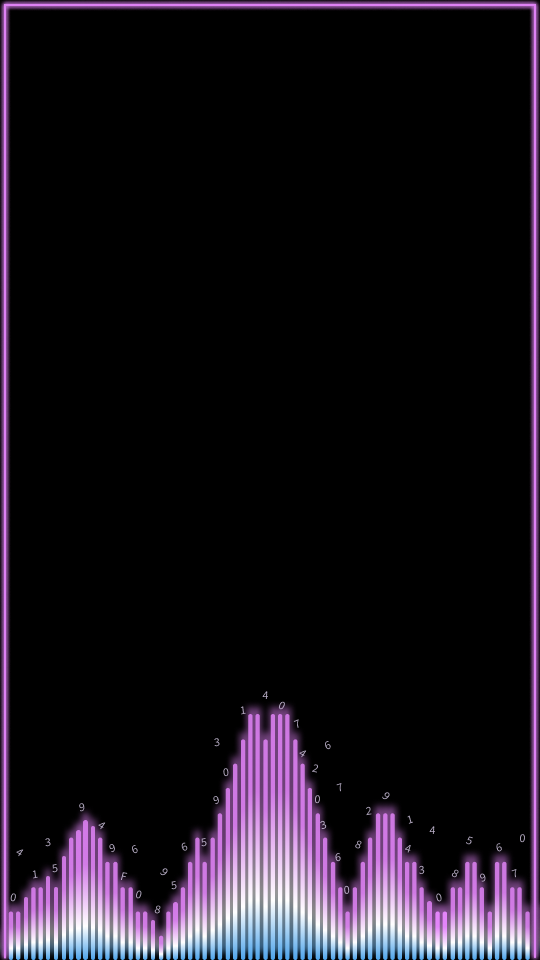
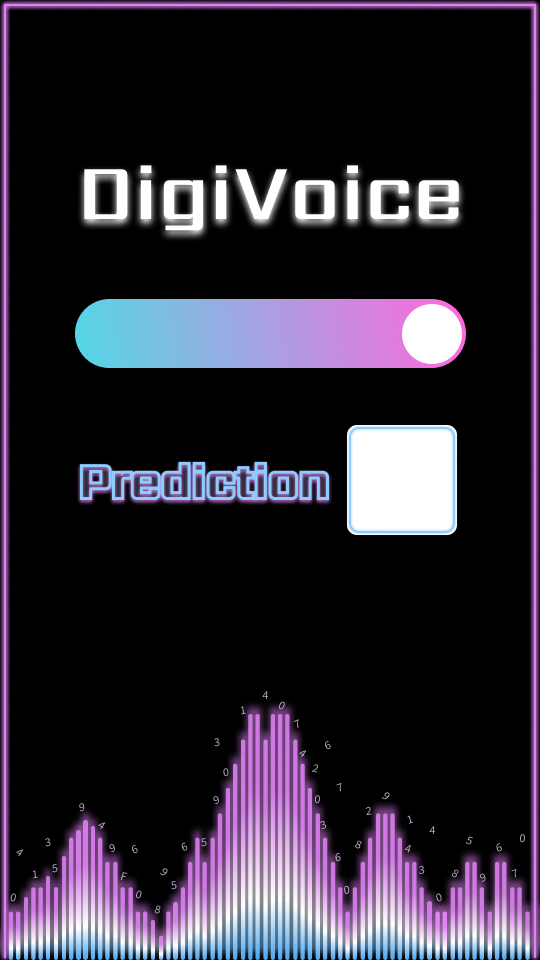
UI done

Changed region(s): [[0.1185, 0.3125, 0.8593, 0.4062], [0.1481, 0.4375, 0.8593, 0.5625], [0.1481, 0.1562, 0.8593, 0.25]]

diff --git a/code/MainUI.py b/code/MainUI.py
@@ -28,49 +28,76 @@ class Ui_MainWindow(object):
         MainWindow.setMaximumSize(QSize(540, 960))
         self.centralwidget = QWidget(MainWindow)
         self.centralwidget.setObjectName(u"centralwidget")
-        self.label_2 = QLabel(self.centralwidget)
-        self.label_2.setObjectName(u"label_2")
-        self.label_2.setGeometry(QRect(71, 30, 218, 43))
-        self.label_2.setTextFormat(Qt.AutoText)
-        self.label_2.setAlignment(Qt.AlignCenter)
-        self.label = QLabel(self.centralwidget)
-        self.label.setObjectName(u"label")
-        self.label.setGeometry(QRect(40, 370, 111, 31))
-        self.label.setAlignment(Qt.AlignCenter)
         self.btnRecord = QPushButton(self.centralwidget)
         self.btnRecord.setObjectName(u"btnRecord")
-        self.btnRecord.setGeometry(QRect(140, 270, 80, 50))
+        self.btnRecord.setGeometry(QRect(100, 301, 300, 65))
         sizePolicy = QSizePolicy(QSizePolicy.Fixed, QSizePolicy.Fixed)
         sizePolicy.setHorizontalStretch(0)
         sizePolicy.setVerticalStretch(0)
         sizePolicy.setHeightForWidth(self.btnRecord.sizePolicy().hasHeightForWidth())
         self.btnRecord.setSizePolicy(sizePolicy)
-        self.btnRecord.setMinimumSize(QSize(80, 50))
-        self.btnRecord.setMaximumSize(QSize(80, 50))
+        self.btnRecord.setMinimumSize(QSize(0, 0))
+        self.btnRecord.setMaximumSize(QSize(540, 960))
         self.btnRecord.setBaseSize(QSize(0, 0))
+        font = QFont()
+        font.setFamilies([u"SF Pro Rounded"])
+        font.setPointSize(36)
+        font.setBold(True)
+        font.setItalic(False)
+        font.setStrikeOut(False)
+        font.setKerning(True)
+        font.setStyleStrategy(QFont.PreferDefault)
+        self.btnRecord.setFont(font)
+        self.btnRecord.setFocusPolicy(Qt.NoFocus)
         self.btnRecord.setLayoutDirection(Qt.LeftToRight)
         self.btnRecord.setAutoFillBackground(False)
+        self.btnRecord.setStyleSheet(u"QPushButton {\n"
+"	background-color: rgba(255, 255, 255, 0)\n"
+"}\n"
+"QPushButton:pressed {\n"
+"	background-color: rgba(255, 255, 255, 0)\n"
+"}")
         self.btnRecord.setIconSize(QSize(0, 0))
+        self.btnRecord.setAutoDefault(False)
+        self.btnRecord.setFlat(False)
         self.lcdOut = QLCDNumber(self.centralwidget)
         self.lcdOut.setObjectName(u"lcdOut")
-        self.lcdOut.setGeometry(QRect(210, 330, 111, 101))
+        self.lcdOut.setGeometry(QRect(350, 428, 104, 104))
         self.lcdOut.setFrameShape(QFrame.NoFrame)
         self.lcdOut.setFrameShadow(QFrame.Plain)
         self.lcdOut.setSmallDecimalPoint(False)
         self.lcdOut.setDigitCount(1)
         self.lcdOut.setMode(QLCDNumber.Hex)
         self.lcdOut.setSegmentStyle(QLCDNumber.Filled)
-        self.lcdOut.setProperty("value", 0.000000000000000)
+        self.lcdOut.setProperty("value", 8.000000000000000)
+        self.lcdOut.setProperty("intValue", 8)
         self.lblBackground = QLabel(self.centralwidget)
         self.lblBackground.setObjectName(u"lblBackground")
+        self.lblBackground.setEnabled(True)
         self.lblBackground.setGeometry(QRect(0, 0, 540, 960))
         self.lblBackground.setPixmap(QPixmap(u"../code/UIBackground.png"))
+        self.lblCountDown = QLabel(self.centralwidget)
+        self.lblCountDown.setObjectName(u"lblCountDown")
+        self.lblCountDown.setGeometry(QRect(413, 309, 40, 50))
+        font1 = QFont()
+        font1.setFamilies([u"SF Pro Rounded"])
+        font1.setPointSize(60)
+        self.lblCountDown.setFont(font1)
+        self.lblCountDown.setStyleSheet(u"color: rgb(0,0,0)")
+        self.lblCountDown.setAlignment(Qt.AlignCenter)
+        self.lblMic = QLabel(self.centralwidget)
+        self.lblMic.setObjectName(u"lblMic")
+        self.lblMic.setEnabled(True)
+        self.lblMic.setGeometry(QRect(414, 311, 36, 46))
+        self.lblMic.setText(u"")
+        self.lblMic.setTextFormat(Qt.AutoText)
+        self.lblMic.setPixmap(QPixmap(u"../code/mic.png"))
         MainWindow.setCentralWidget(self.centralwidget)
         self.lblBackground.raise_()
-        self.label_2.raise_()
-        self.label.raise_()
         self.btnRecord.raise_()
         self.lcdOut.raise_()
+        self.lblCountDown.raise_()
+        self.lblMic.raise_()
         self.menubar = QMenuBar(MainWindow)
         self.menubar.setObjectName(u"menubar")
         self.menubar.setGeometry(QRect(0, 0, 540, 37))
@@ -83,15 +110,14 @@ class Ui_MainWindow(object):
 
     def retranslateUi(self, MainWindow):
         MainWindow.setWindowTitle(QCoreApplication.translate("MainWindow", u"Spoken Digits", None))
-        self.label_2.setText(QCoreApplication.translate("MainWindow", u"<html><head/><body><p><span style=\" font-size:36pt;\">Spoken Digits</span></p></body></html>", None))
-        self.label.setText(QCoreApplication.translate("MainWindow", u"<html><head/><body><p><span style=\" font-size:24pt;\">Prediction:</span></p></body></html>", None))
 #if QT_CONFIG(tooltip)
         self.btnRecord.setToolTip("")
 #endif // QT_CONFIG(tooltip)
-        self.btnRecord.setText(QCoreApplication.translate("MainWindow", u"Record", None))
+        self.btnRecord.setText(QCoreApplication.translate("MainWindow", u"Click to Record", None))
 #if QT_CONFIG(shortcut)
         self.btnRecord.setShortcut(QCoreApplication.translate("MainWindow", u"R", None))
 #endif // QT_CONFIG(shortcut)
         self.lblBackground.setText("")
+        self.lblCountDown.setText("")
     # retranslateUi
 

diff --git a/code/run.py b/code/run.py
@@ -15,7 +15,7 @@ class MainWindow(QMainWindow):
         self.ui = Ui_MainWindow()
         self.ui.setupUi(self)
         self.ui.btnRecord.clicked.connect(self.buttonClicked)
-        self.duration = 4
+        self.duration = 3
         self.seconds = self.duration - 1
         timer = QTimer(self)
         timer.start(1000)
@@ -24,17 +24,24 @@ class MainWindow(QMainWindow):
         self.predict = False
         self.recording = np.empty(0)
         self.sampleRate = 48000
+        self.recordStart = False
 
     def buttonClicked(self):
-        self.timerStart = True
         self.seconds = self.duration
-        self.recording = recordAudio(self.sampleRate, self.duration, '/temp/')
+        self.ui.lcdOut.hide()
+        self.timerStart = True
+        self.recordStart = True
         self.predict = True
 
     def timeout(self):
-        if self.seconds > 0 and self.timerStart:
+        if self.recordStart:
+            self.ui.btnRecord.setText('Stops in...')
+            self.ui.lblMic.hide()
+            self.recording = recordAudio(self.sampleRate, self.duration, '/temp/')
+            self.recordStart = False
+        if self.seconds >= 0 and self.timerStart:
+            self.ui.lblCountDown.setText(str(self.seconds))
             self.seconds -= 1
-            self.ui.lcdOut.display(self.seconds)
         elif self.predict:
             self.timerStart = False
             self.predict = False
@@ -44,9 +51,13 @@ class MainWindow(QMainWindow):
             img = generateMelSpec('/temp/', '/temp/')
             model = createModel(100, 0.0002, 49)
             p = predict(model, img)
+            self.ui.lcdOut.show()
             if p == -1:
                 self.ui.lcdOut.display('F')
             self.ui.lcdOut.display(p)
+            self.ui.btnRecord.setText('Click to Record')
+            self.ui.lblCountDown.setText('')
+            self.ui.lblMic.show()
         else:
             self.timerStart = False
 
